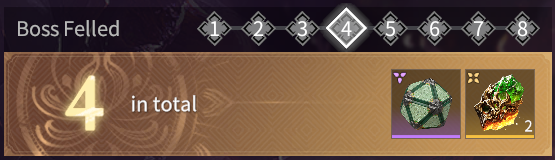
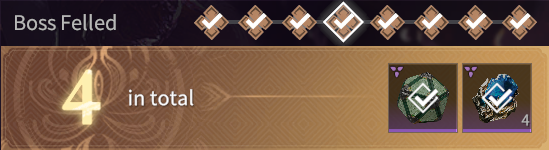
Updated Enigma Peak Rewards

diff --git a/endgame.html b/endgame.html
@@ -176,31 +176,31 @@
 						<ol class="center">
 							<li>For beating the 1st boss.
 								<img src="img/endgame/enigma/peakreward1.png" alt="1st Reward" class="example">
-								1 Epic Souljade Choice Gift + 1 Quench Crystal<br><br>
+								1 Epic Souljade Random Gift + 2 Carved Crystals<br><br>
 							</li>
 							<li>For beating the 2nd boss.
 								<img src="img/endgame/enigma/peakreward2.png" alt="2nd Reward" class="example">
-								1 Epic Souljade Choice Gift + 1 Quench Crystal<br><br>
+								1 Epic Souljade Random Gift + 2 Carved Crystal<br><br>
 							</li>
 							<li>For beating the 3rd boss.
 								<img src="img/endgame/enigma/peakreward3.png" alt="3rd Reward" class="example">
-								1 Epic Souljade Choice Gift + 2 Quench Crystals<br><br>
+								1 Epic Souljade Random Gift + 4 Carved Crystals<br><br>
 							</li>
 							<li>For beating the 4th boss.
 								<img src="img/endgame/enigma/peakreward4.png" alt="4th Reward" class="example">
-								1 Epic Souljade Choice Gift + 2 Quench Crystals<br><br>
+								1 Epic Souljade Choice Gift + 4 Carved Crystals<br><br>
 							</li>
 							<li>For beating the 5th boss.
 								<img src="img/endgame/enigma/peakreward5.png" alt="5th Reward" class="example">
-								1 Legendary Rune Key + 3 Quench Crystals<br><br>
+								1 Legendary Rune Key + 6 Carved Crystals<br><br>
 							</li>
 							<li>For beating the 6th boss.
 								<img src="img/endgame/enigma/peakreward6.png" alt="6th Reward" class="example">
-								1 Legendary Rune Key + 3 Quench Crystals<br><br>
+								1 Legendary Rune Key + 6 Carved Crystals<br><br>
 							</li>
 							<li>For beating the 7th boss.
 								<img src="img/endgame/enigma/peakreward7.png" alt="7th Reward" class="example">
-								1 Legendary Souljade Choice Gift + 4 Quench Crystals<br><br>
+								1 Legendary Souljade Choice Gift + 8 Carved Crystals<br><br>
 							</li>
 							<li>For completing Enigma Peak.
 								<img src="img/endgame/enigma/peakreward8.png" alt="8th Reward" class="example">
